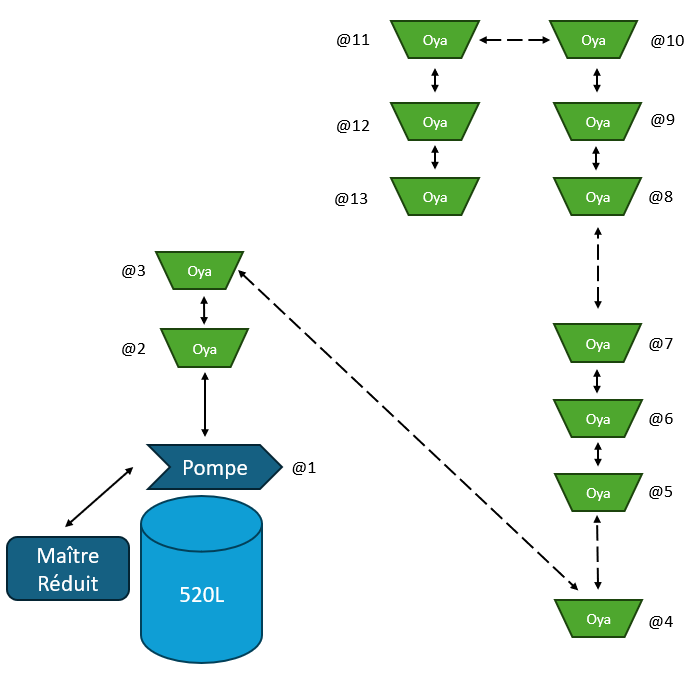
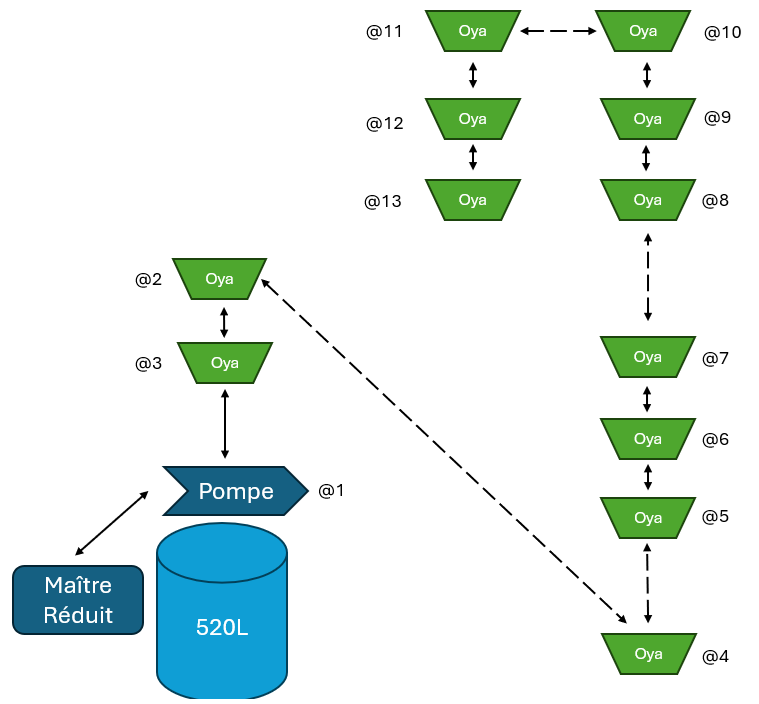
Evolution code maître des oyas: - Gestion des tailles d'oyas (meme principe que la config des esclaves presents) - Memorisation config esclaves - Mise à jour config possible par mqtt et par terminal
Site Web et serveur:
- Affichage des gros oyas
- Amélioration affichage quand le réseau ne répond pas (pas pertinent d'avoir le récap des niveaux bas pour ces esclaves out)

diff --git a/gateway/src/site/templates/index_bootstrap.html b/gateway/src/site/templates/index_bootstrap.html
@@ -106,7 +106,7 @@
                         <span class="badge bg-danger">Bas ({{ module.alert_count }})</span>
                         {% endif %}
                         {% if module.comm_issues %}
-                        <span class="badge bg-danger">Pas de réponse</span>
+                        <span class="badge bg-danger">Pas de réponse ({{module.comm_issues_count}})</span>
                         {% endif %}
                     </div>
                     <div id="detail-{{ loop.index }}" style="display: none;">
@@ -116,7 +116,7 @@
                                 <tr>
                                     <td>{{ oya.addr }}</td>
                                     <td>
-                                        <img src="{{ url_for('static', filename='pump.png' if oya.type == 'pump' else 'oya.png') }}" class="img-fluid" width="32">
+                                        <img src="{{ url_for('static', filename='pump.png' if oya.type == 'pump' else 'oya.png' if oya.big==false else 'big_oya.png') }}" class="img-fluid" width="32">
                                     </td>
                                     <td>
                                         <img src="{{ url_for('static', filename='bus_ok.png' if oya.comm_ok else 'bus_nok.png') }}" class="img-fluid" width="32">

diff --git a/oyas/master_rs485/src/master_485/terminal.cpp b/oyas/master_rs485/src/master_485/terminal.cpp
@@ -34,7 +34,8 @@ static void _help(void)
   Serial.println("  - setdate dd/mm/yyyy");
   Serial.println("  - settime hh:mm:ss");
   Serial.println("  - time");
-  Serial.println("  - confslaves");
+  Serial.println("  - confslaves (add/rm/mask)");
+  Serial.println("  - confbigs (add/rm/mask)");
 }
 
 static bool _parseOnOff(const char *params,bool def)
@@ -363,6 +364,63 @@ static void _term_exec_config_slaves(const char *strParams)
   }
 }
 
+static void _term_exec_config_bigs(const char *strParams)
+{
+  if (strParams==NULL)
+  {
+    unsigned short mask=api_get_bigs();
+    Serial.print("Liste gros oyas: ");
+    Serial.println(mask,HEX);
+
+    for (int i=0;i<14;i++)
+    {
+      unsigned short m=1<<i;
+      if ((mask&m)==m)
+      {
+        if (i>0)
+        {
+          Serial.print("  - OYA   @");
+          Serial.println(i+1,HEX);
+          delay(5);
+          yield();
+        }
+      }
+    }
+  }
+  else
+  {
+    int mask;
+    int addr;
+    char cmd[10];
+    if ( ( sscanf(strParams,"%3s %1X",cmd,&addr)==2 ) && (addr>0) && (addr<15) )
+    {
+      if (strcmp(cmd,"add")==0)
+      {
+        unsigned short mask=api_get_bigs();
+        mask|=( 1<< (addr-1) );
+        api_set_bigs(mask);
+        _term_exec_config_bigs(NULL);
+      }
+      else if (strcmp(cmd,"rm")==0)
+      {
+        unsigned short mask=api_get_bigs();
+        mask&=~( 1<< (addr-1) );
+        api_set_bigs(mask);
+        _term_exec_config_bigs(NULL);
+      }
+    }
+    else if ( sscanf(strParams,"%X",&mask)==1 )
+    {
+      api_set_bigs((unsigned short)mask);
+      _term_exec_config_bigs(NULL);
+    }
+    else
+    {
+      Serial.println("Parametres incorrects");
+    }
+  }
+}
+
 static void _term_exec_ping(const char *strParams)
 {
   int addr;
@@ -458,6 +516,10 @@ static void _execCmd(const char *strCmd,const char *strParams)
   else if (strcmp(strCmd,"confslaves")==0)
   {
     _term_exec_config_slaves(strParams);
+  }
+  else if (strcmp(strCmd,"confbigs")==0)
+  {
+    _term_exec_config_bigs(strParams);
   }
   else if (strcmp(strCmd,"ping")==0)
   {

diff --git a/oyas/master_rs485/src/master_485/api.cpp b/oyas/master_rs485/src/master_485/api.cpp
@@ -5,10 +5,11 @@
 #include <RTClib.h>
 
 #include "databuilder.h"
+#include "memory.h"
 
 MasterArduino Master;
-
 static DS1307 _rtc;
+Memory mem;
 
 void api_trace(bool en)
 {
@@ -94,11 +95,31 @@ void api_set_hour(int hour,int minute,int second)
 void api_set_slaves_config(unsigned short config)
 {
   Master.set_config_slaves(config);
+  mem.slaves=Master.get_config_slaves();
+  mem.save();
 }
 
 unsigned short api_get_slaves_config(void)
 {
   return Master.get_config_slaves();
+}
+
+unsigned short api_get_bigs(void)
+{
+  if (Master.getSlavesList()!=nullptr)
+    return Master.getSlavesList()->big_oyas();
+  else
+    return 0;
+}
+
+void api_set_bigs(unsigned short bigs)
+{
+  if (Master.getSlavesList()!=nullptr)
+  {
+    Master.getSlavesList()->set_big_oyas(bigs);
+    mem.bigs=Master.getSlavesList()->big_oyas();
+    mem.save();
+  }
 }
 
 void api_raz_all_time(void)
@@ -143,8 +164,16 @@ void api_latch_data(Data *pData)
     bld.set(oya);
     oya=api_find_next_oya(pos);
   }
+  bld.set_bigs(api_get_bigs());
 
   DateTime now = _rtc.now();
   bld.set(&now);
 }
 
+bool api_load_memory(void)
+{
+  bool res=mem.load();
+  api_set_slaves_config(mem.slaves);
+  api_set_bigs(mem.bigs);
+  return res;
+}

diff --git a/gateway/src/jard_oyas_mqtt_mgr.py b/gateway/src/jard_oyas_mqtt_mgr.py
@@ -169,6 +169,7 @@ class RdOyasSrv(RdApp):
             self.update_mod_var_int(name,data,'ons')
             self.update_mod_var_int(name,data,'lows')
             self.update_mod_var_int(name,data,'highs')
+            self.update_mod_var_int(name,data,'bigs')
             self.set_mod_var(name,'date',data['date'],None)                    
                             
         self.set_mod_var(name,'valid',1)
@@ -262,12 +263,19 @@ class RdOyasSrv(RdApp):
                 print('_'*40)
                 print('Cycle:')
 
-##            slp=self.get_app_var_bool('sleep')
-##            
-##            for n in self.modules:
-##                if slp==True:
-##                    self.client.publish("/oyas/cmd/%s" % n,"sleep");
-##                    continue
+            
+            for n in self.modules:
+                new_slaves=self.get_mod_var_int(n,'to_slaves')
+                if new_slaves!=None:
+                    slaves=self.get_mod_var_int(n,'slaves')
+                    if slaves!=new_slaves:
+                        print(f'Envoi de la configuration des esclaves à {n}: {slaves:04X} -> {new_slaves:04X}')
+                        js={'req':'setcfg','slaves':new_slaves}
+                        self.client.publish("/oyas/cmd/%s" % n,)
+                        self.set_mod_var_int(n,'slaves',new_slaves)
+            
+            
+            time.sleep(1)
 ##                
 ##                v=self.get_mod_var(n,'to_cmd')
 ##                if v!=None and v=='1':

diff --git a/oyas/master_rs485/src/master_485/wificomm.cpp b/oyas/master_rs485/src/master_485/wificomm.cpp
@@ -94,6 +94,7 @@ void WifiComm::pubDataInfo(void)
   doc["lows"]=data.low;
   doc["highs"]=data.high;
   doc["flow"]=data.flow;
+  doc["bigs"]=data.bigs;
 
   char dte[40];
   sprintf(dte,"%04d-%02d-%02dT%02d:%02d:%02dZ",
@@ -204,6 +205,23 @@ void WifiComm::recv(void)
           else if (strcmp(doc["req"],"razt")==0)
           {
             api_raz_all_time();
+            tmrRemoteActive.start();
+            tmrAlive.start();
+          }
+          else if (strcmp(doc["req"],"setcfg")==0)
+          {
+            if (doc.containsKey("slaves"))
+            {
+              int slaves=doc["slaves"];
+              api_set_slaves_config(slaves);
+            }
+
+            if (doc.containsKey("bigs"))
+            {
+              int bigs=doc["bigs"];
+              api_set_bigs(bigs);
+            }
+
             tmrRemoteActive.start();
             tmrAlive.start();
           }

diff --git a/oyas/master_rs485/src/master_485/slaves.hpp b/oyas/master_rs485/src/master_485/slaves.hpp
@@ -177,11 +177,13 @@ class SlavesList
     Slave *slaves[NUM_SLAVES_MAX];
 
     unsigned short flgEnabledSlaves;
+    unsigned short flgBigOyas;
 
   public:
     SlavesList()
     {
       flgEnabledSlaves=0;
+      flgBigOyas=0;
       for (int i=0;i<NUM_SLAVES_MAX;i++)
       {
     	if (i==0)
@@ -215,6 +217,21 @@ class SlavesList
     unsigned short enabled_slaves(void)
     {
       return flgEnabledSlaves;
+    }
+
+    void config_big_oyas(unsigned short big_oyas)
+    {
+      flgBigOyas=big_oyas;
+    }
+
+    unsigned short big_oyas(void)
+    {
+      return flgBigOyas;
+    }
+
+    void set_big_oyas(unsigned short bigs)
+    {
+      flgBigOyas=bigs;
     }
 
     void init_all(void)

diff --git a/gateway/src/jard_oyas_client.py b/gateway/src/jard_oyas_client.py
@@ -18,6 +18,7 @@ import time
 ###         "comms":14,			///< Même principe pour la comm (oyas/pompe communiquent avec le maitre ou pas)
 ###         "lows":4,			///< Même principe pour le capteur bas de chaque oya (4 = oya 2 low tous les autres pas low)
 ###         "highs":0,			///< Même principe pour le capteur haut de chaque oya (0 = aucun oya high)
+###         "bigs": 2,          ///< Même principe pour la taille de chaque oya (bit à 1= gros oya)
 ###         "date_mqtt":"2025-05-14T00:45:12Z",
 ###         "date":"2025-05-14T00:46:12Z",
 ###         "slaves":
@@ -27,7 +28,7 @@ import time
 ###              "type":"pump",
 ###              "on":true,
 ###				 "flow":456,
-###              "comm_ok":true
+###              "comm_ok":true    
 ###           },
 ###           {
 ###              "addr":2,
@@ -35,7 +36,8 @@ import time
 ###              "on":true,
 ###              "low":true,
 ###              "high":false,
-###              "comm_ok":true
+###              "comm_ok":true,
+###              "big":true
 ###           },
 ###           {
 ###              "addr":3,
@@ -43,7 +45,8 @@ import time
 ###              "on":false,
 ###              "low":false,
 ###              "high":false,
-###              "comm_ok":true
+###              "comm_ok":true,
+###              "big":false
 ###           }
 ###         ]
 ###		 },
@@ -117,6 +120,7 @@ class RdOyasClient(RdApp):
         ons=self.get_mod_var_int(name,'ons')
         lows=self.get_mod_var_int(name,'lows')
         highs=self.get_mod_var_int(name,'highs')
+        bigs=self.get_mod_var_int(name,'bigs')
         date=self.get_mod_var(name,'date')
         date_mqtt=self.get_mod_var(name,'date_mqtt')
             
@@ -148,6 +152,7 @@ class RdOyasClient(RdApp):
                 if addr!=1:
                     obj['high']=(highs & mask) == mask
                     obj['low']=(lows & mask) == mask
+                    obj['big']=(bigs & (mask>>1)) == (mask>>1)
                 
                 mod['slaves'].append(obj)
             

diff --git a/oyas/master_rs485/src/master_485/databuilder.h b/oyas/master_rs485/src/master_485/databuilder.h
@@ -1,3 +1,7 @@
+/***
+ * @file databuilder.h
+ * @brief Builder pour le document JSON de data sortant
+ **/
 #ifndef DATA_BUILDER_HEADER_INCLUDED
 #define DATA_BUILDER_HEADER_INCLUDED
 
@@ -6,6 +10,7 @@ class Oya;
 class Pump;
 class Slave;
 class DateTime;
+class Master;
 class DataBuilder
 {
   private:
@@ -21,6 +26,7 @@ class DataBuilder
     void set(Oya *oya);
     void set(int day,int month,int year,int h,int m,int s);
     void set(DateTime *pDt);
+    void set_bigs(unsigned short bigs);
 };
 
 #endif

diff --git a/gateway/src/site/app.py b/gateway/src/site/app.py
@@ -105,7 +105,8 @@ def index():
             level = resume_levels([oya for oya in slaves if oya.get("type") == "oya"])
             comm_issues = any(not oya.get("comm_ok", True) for oya in slaves)
             high_count = sum(1 for oya in slaves if oya.get("type") == "oya" and oya.get("high"))
-            alert_count = sum(1 for oya in slaves if oya.get("type") == "oya" and not oya.get("high") and not oya.get("low"))
+            alert_count = sum(1 for oya in slaves if oya.get("type") == "oya" and not oya.get("high") and not oya.get("low") and oya.get("comm_ok"))
+            comm_issues_count=sum(1 for slv in slaves if not slv.get("comm_ok"))
             module = {
                 "name": module_info.get("name"),
                 "date": iso_to_dte(module_info.get("date").replace("Z", "+00:00")),
@@ -113,6 +114,7 @@ def index():
                 "comm_issues": comm_issues,
                 "high_count": high_count,
                 "alert_count": alert_count,
+                "comm_issues_count": comm_issues_count,
                 "slaves": slaves
             }
             modules.append(module)

diff --git a/oyas/master_rs485/src/master_485/databuilder.cpp b/oyas/master_rs485/src/master_485/databuilder.cpp
@@ -22,6 +22,10 @@ inline unsigned short DataBuilder::mask(int addr)
   return msk;
 }
 
+void DataBuilder::set_bigs(unsigned short bigs)
+{
+  pData->bigs=bigs;
+}
 
 void DataBuilder::set(Slave *slave)
 {